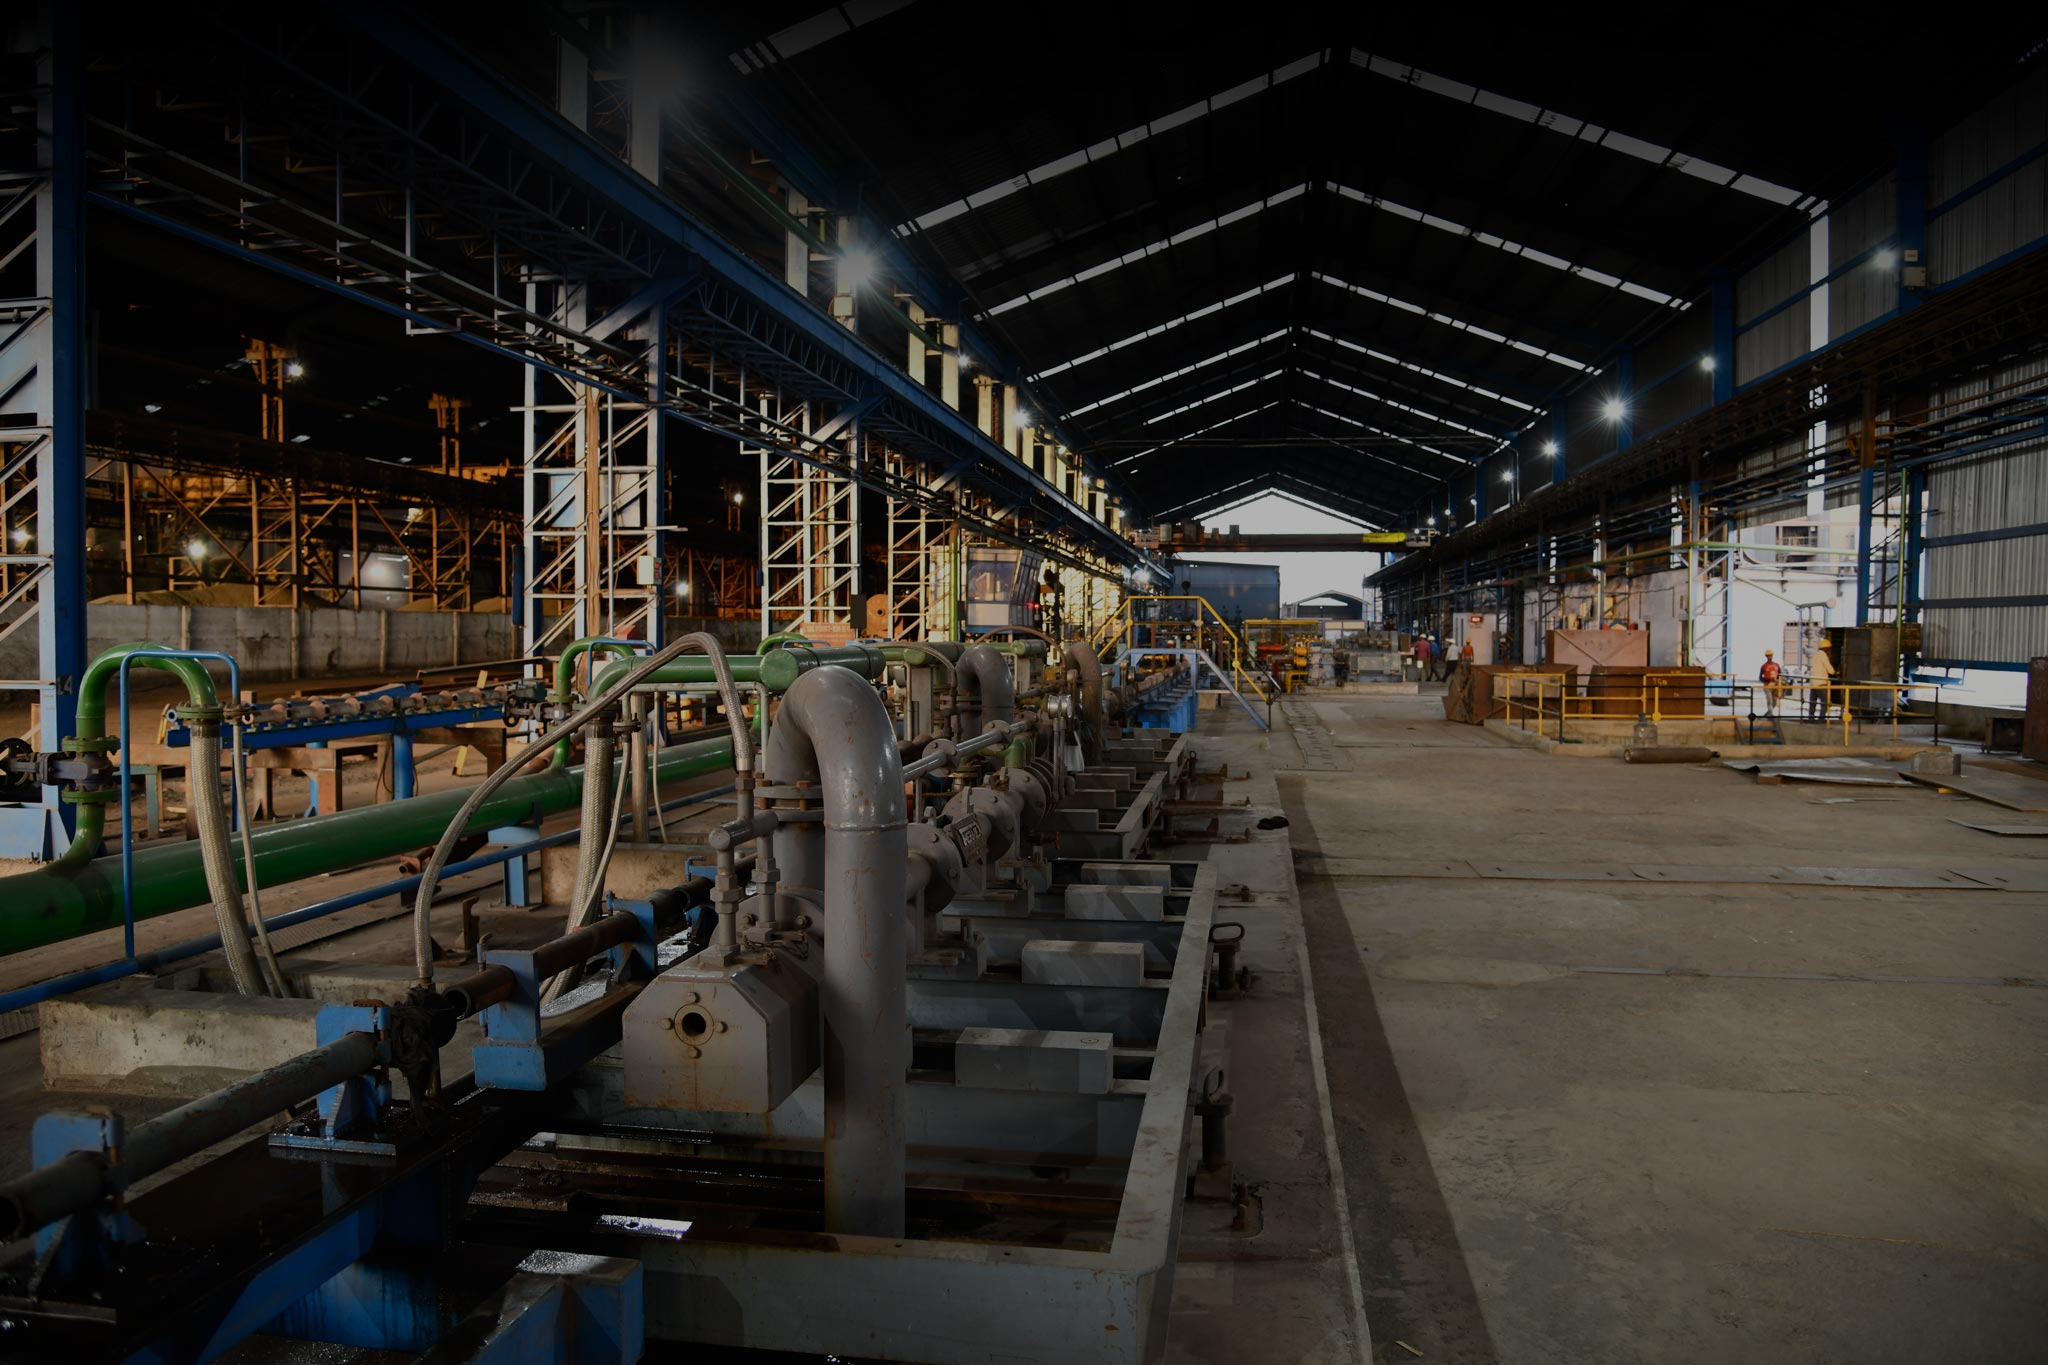
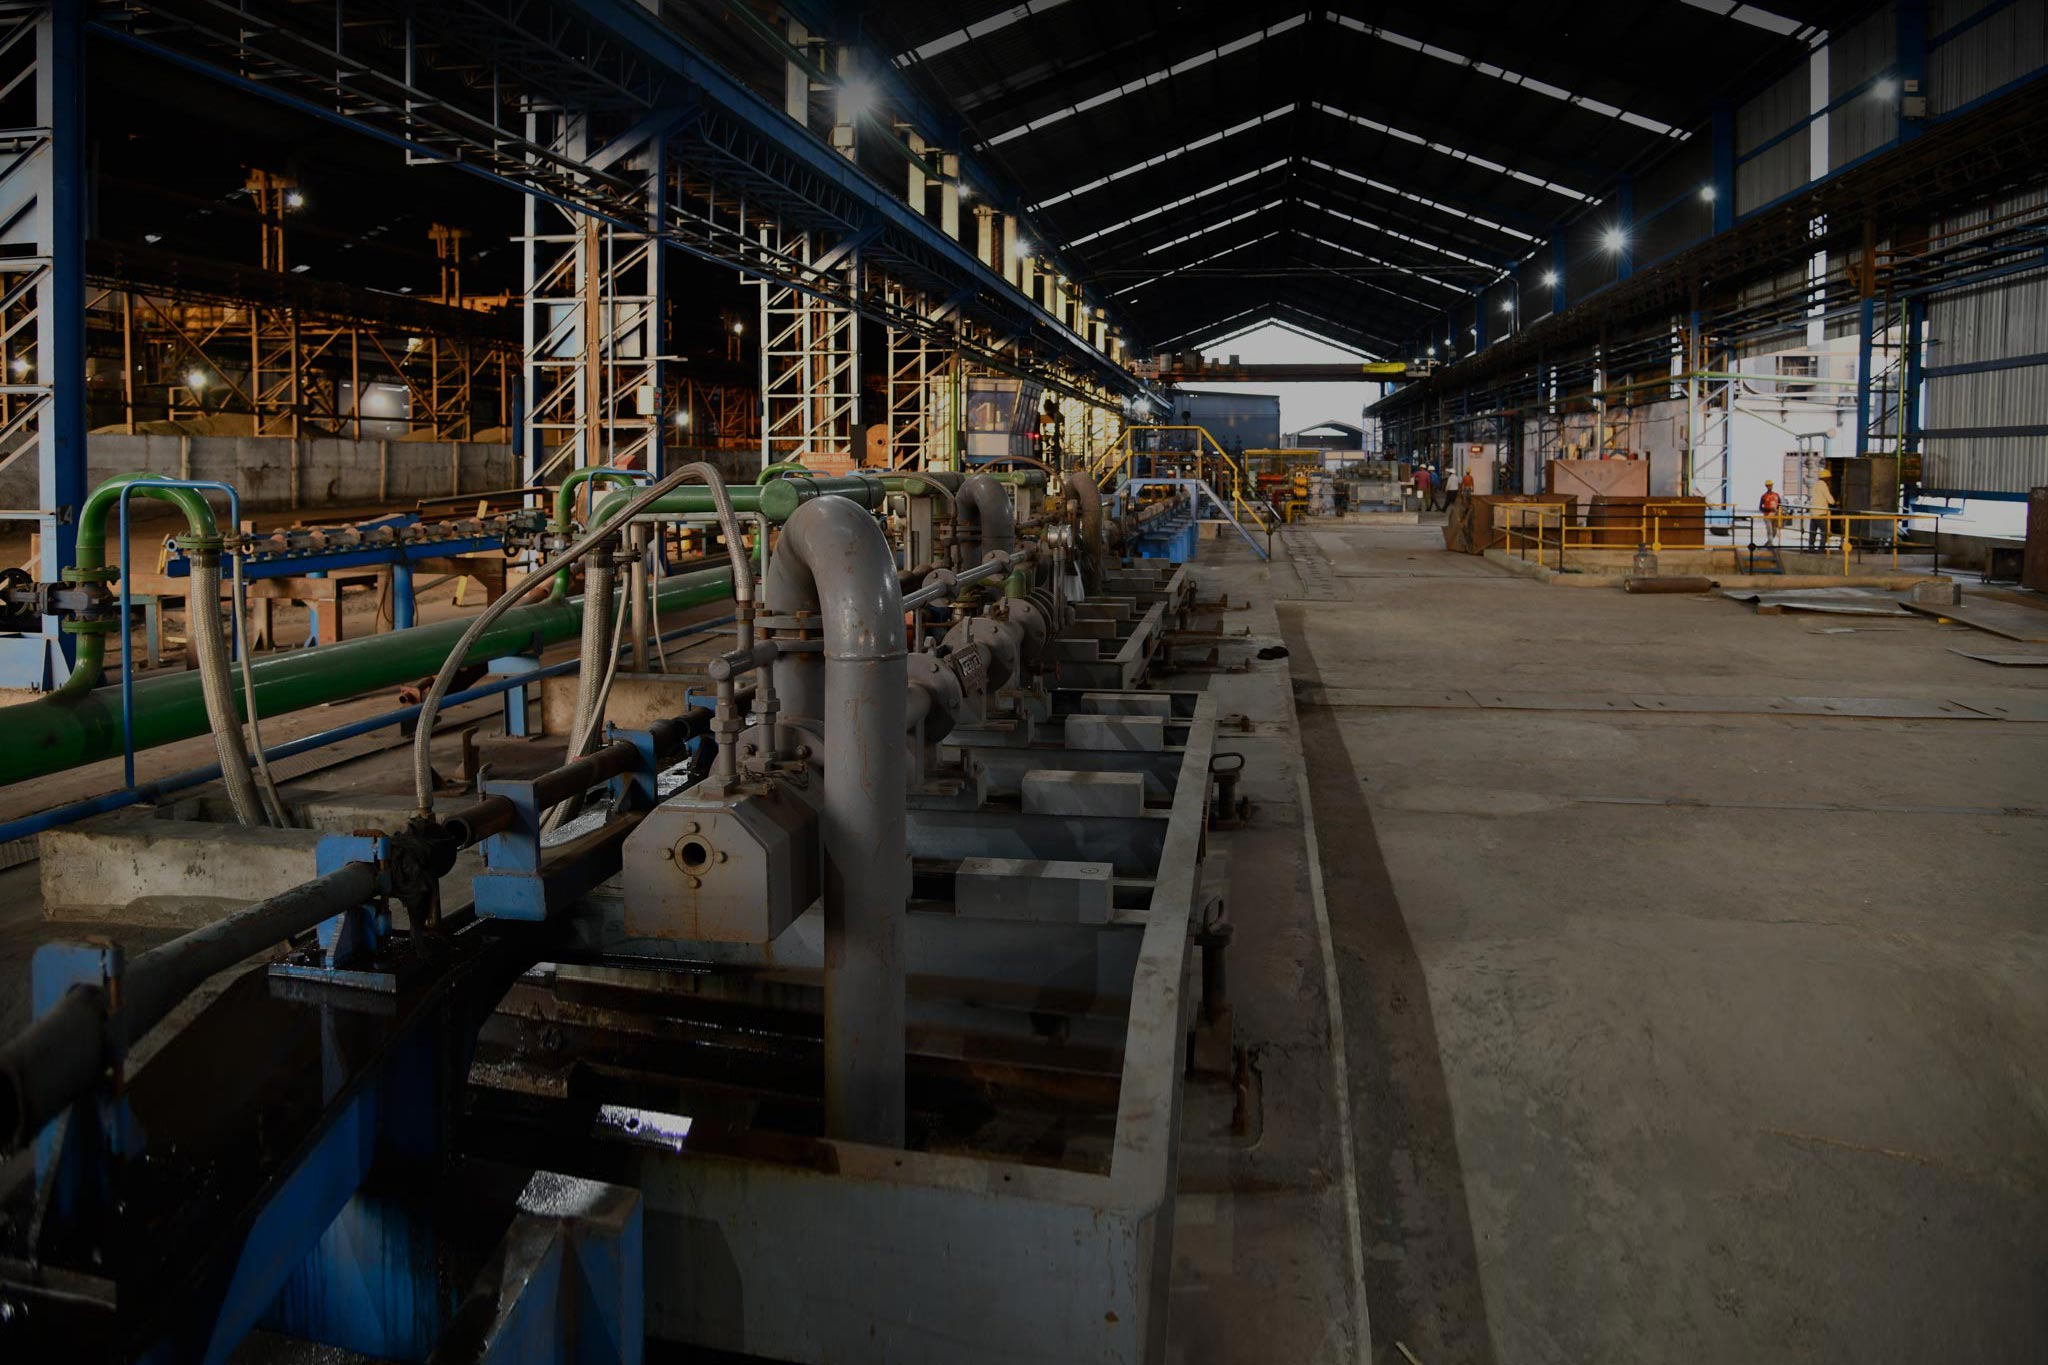
css changes

diff --git a/assets/css/style.css b/assets/css/style.css
@@ -7996,6 +7996,9 @@ textarea.form-control {
   }
 }
 
+
+
+
 /*-------------------------------------
 IPhone
 --------------------------------------8 Plus */
@@ -8053,6 +8056,16 @@ Ipad Landscape
     background-position: top center !important;
 	
 }
+
+
+@media only screen and (max-width: 1792px) {
+ .page-title {
+    background-size: 100% !important;
+    background-position: center -200px !important;
+  }
+}
+
+
 
 /*----------------------
 Mac Book 16 Inch Portrait
